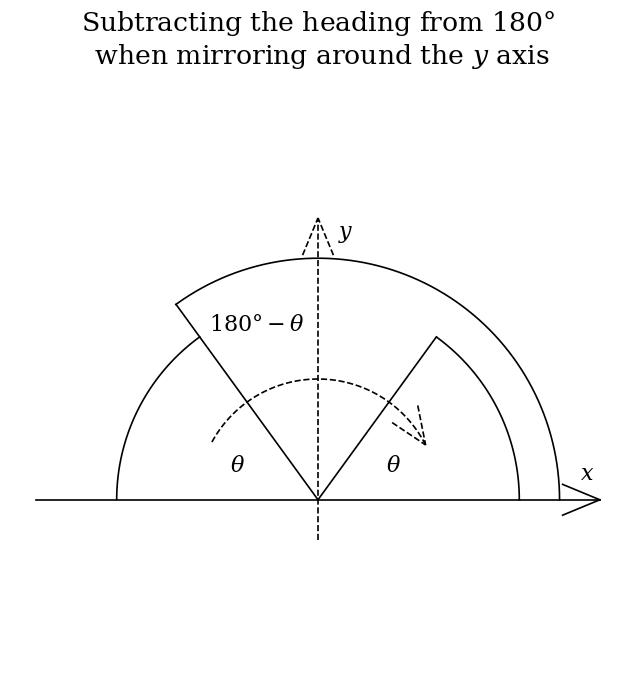
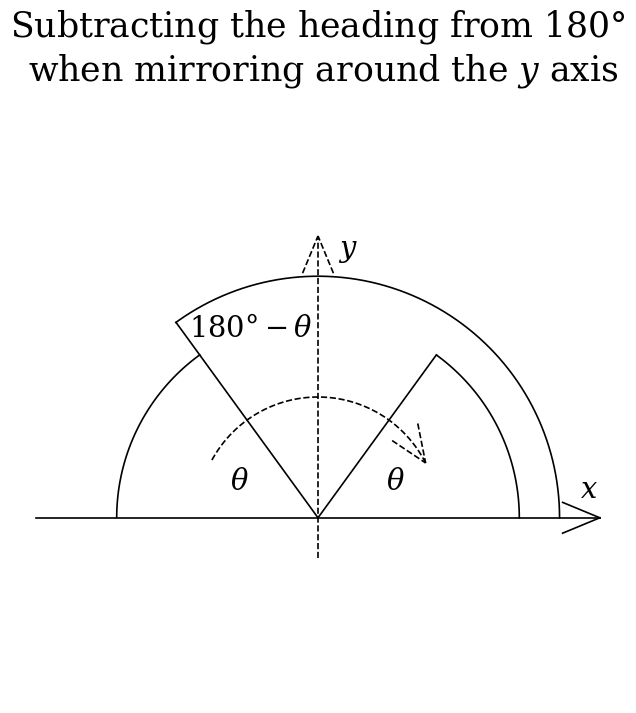
New illustrate

diff --git a/illustrate_rotate.py b/illustrate_rotate.py
@@ -26,7 +26,7 @@ step_val = 10 ** -2
 angle_orig = np.pi / 5
 
 plt.figure(figsize=(10, 10), dpi = 80)
-plt.rcParams['font.size'] = 20
+plt.rcParams['font.size'] = 38
 plt.rcParams['font.family'] = "serif"
 plt.rcParams["mathtext.fontset"] = "dejavuserif"
 plt.axis("equal")
@@ -47,7 +47,7 @@ plt.plot(x3, y3, c = "k")
 plt.text(max(y1 , x1) * 2 / 3, 1.6 * yoff, "$\\theta$")
 x4, y4 = make_arc(yoff, xoff, radi_use * 5 / 6, angle_orig, np.pi / 2 + step_val / 5, step_val)
 plt.plot(x4, y4, c = "k")
-plt.text(1.45 * xoff, 2.6 * yoff, "$90\degree - \\theta$") 
+plt.text(1.6 * xoff, 3.5 * yoff, "$90\degree - \\theta$") 
 plt.title("Subtracting the heading from $90\degree$")
 if not os.path.isdir("illustrate/"):
     os.makedirs("illustrate")
@@ -55,7 +55,7 @@ plt.savefig("illustrate/90.png", bbox_inches = "tight")
 plt.close()
 
 plt.figure(figsize=(10, 10), dpi = 80)
-plt.rcParams['font.size'] = 20
+plt.rcParams['font.size'] = 26
 plt.rcParams['font.family'] = "serif"
 plt.rcParams["mathtext.fontset"] = "dejavuserif"
 plt.axis("equal")
@@ -83,7 +83,7 @@ x6, y6 = make_arc(yoff, xoff + radi_use, radi_use * 5 / 6, np.pi - angle_orig, n
 plt.plot(x6, y6, c = "k")
 plt.text(radi_use + max(y1 , x1) * 2 / 3, 1.7 * yoff, "$\\theta$")
 plt.text(xoff + radi_use - max(y1 , x1) * 2 / 3 + xoff / 2, 1.7 * yoff, "$\\theta$")
-plt.text(radi_use - 1.7 * xoff, yoff + 0.7 * radi_use, "$180\degree - \\theta$") 
+plt.text(radi_use - 2.2 * xoff, yoff + 0.75 * radi_use, "$180\degree - \\theta$") 
 x7, y7 = make_arc(yoff, xoff + radi_use, radi_use / 2, angle_orig / 2, np.pi - angle_orig / 2, step_val)
 plt.plot(x7, y7, c = "k", linestyle = "dashed")
 make_arrow(x7[0], y7[0], radi_use / 6, angle = np.pi * 27 / 16, isdashed = True)
@@ -94,7 +94,7 @@ plt.savefig("illustrate/180.png", bbox_inches = "tight")
 plt.close()
   
 plt.figure(figsize=(10, 10), dpi = 80)
-plt.rcParams['font.size'] = 20
+plt.rcParams['font.size'] = 27
 plt.rcParams['font.family'] = "serif"
 plt.rcParams["mathtext.fontset"] = "dejavuserif"
 plt.axis("equal")
@@ -121,7 +121,7 @@ x6, y6 = make_arc(yoff + radi_use, xoff + radi_use, radi_use * 5 / 6, 2 * np.pi 
 plt.plot(x6, y6, c = "k")
 plt.text(radi_use + 1.2 * xoff, radi_use * 3 / 4 + yoff, "$\\theta$")
 plt.text(radi_use + 1.2 * xoff, radi_use * 7 / 4 - yoff * 2.3, "$\\theta$")
-plt.text(radi_use / 3, 3 * yoff + radi_use, "$360\degree - \\theta$")
+plt.text(radi_use / 3.9, 3 * yoff + radi_use, "$360\degree - \\theta$")
 x7, y7 = make_arc(yoff + radi_use, xoff + radi_use, radi_use / 2, angle_orig / 2, 2 * np.pi - angle_orig / 2, step_val)
 plt.plot(x7, y7, c = "k", linestyle = "dashed")
 make_arrow(x7[0], y7[0], radi_use / 6, angle = np.pi * 15 / 8, isdashed = True)
